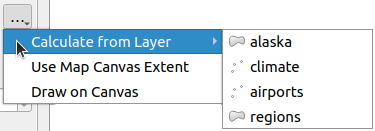
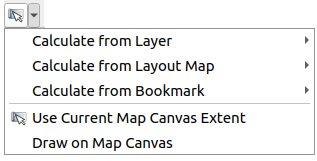
Describe the extent selection widget in algorithm dialog

diff --git a/docs/user_manual/processing/toolbox.rst b/docs/user_manual/processing/toolbox.rst
@@ -159,13 +159,18 @@ table can be of one of the following types.
   ones from the drop-down list or from the :ref:`CRS selection <crs_selector>`
   dialog that appears when you click on the button on the right-hand side.
 * An **extent**, a text box defining a rectangle through its corners coordinate
-  in the format ``xmin, xmax, ymin, ymax``. Clicking on the button on the
-  right-hand side of the value selector, a pop-up menu will appear,
-  giving you options to:
+  in the format ``xmin, xmax, ymin, ymax``. Press the |mapIdentification|
+  :sup:`Set to current map canvas extent` button to use the map canvas
+  extent. Clicking the arrow on the right-hand side of the value selector,
+  a pop-up menu will appear, giving you options to:
 
-  * :guilabel:`Calculate from layer`: fills the text box with the coordinates
+  * :menuselection:`Calculate from layer -->`: fills the text box with the coordinates
     of the bounding box of a layer to select among the loaded ones
-  * :guilabel:`Use map canvas extent`
+  * :menuselection:`Calculate from layout map -->`: fills the text box with the coordinates
+    of a map item selected from a layout in the current project
+  * :menuselection:`Calculate from bookmark -->`: fills the text box with the coordinates
+    of a saved bookmark
+  * |mapIdentification| :guilabel:`Use current map canvas extent`
   * :guilabel:`Draw on canvas`: the parameters window will hide itself, so you
     can click and drag onto the canvas. Once you have defined the extent
     rectangle, the dialog will reappear, containing the values in the extent text
@@ -387,6 +392,8 @@ to a temporary file and deleted once you exit QGIS).
 .. |editCopy| image:: /static/common/mActionEditCopy.png
    :width: 1.5em
 .. |fileSave| image:: /static/common/mActionFileSave.png
+   :width: 1.5em
+.. |mapIdentification| image:: /static/common/mActionMapIdentification.png
    :width: 1.5em
 .. |options| image:: /static/common/mActionOptions.png
    :width: 1em
